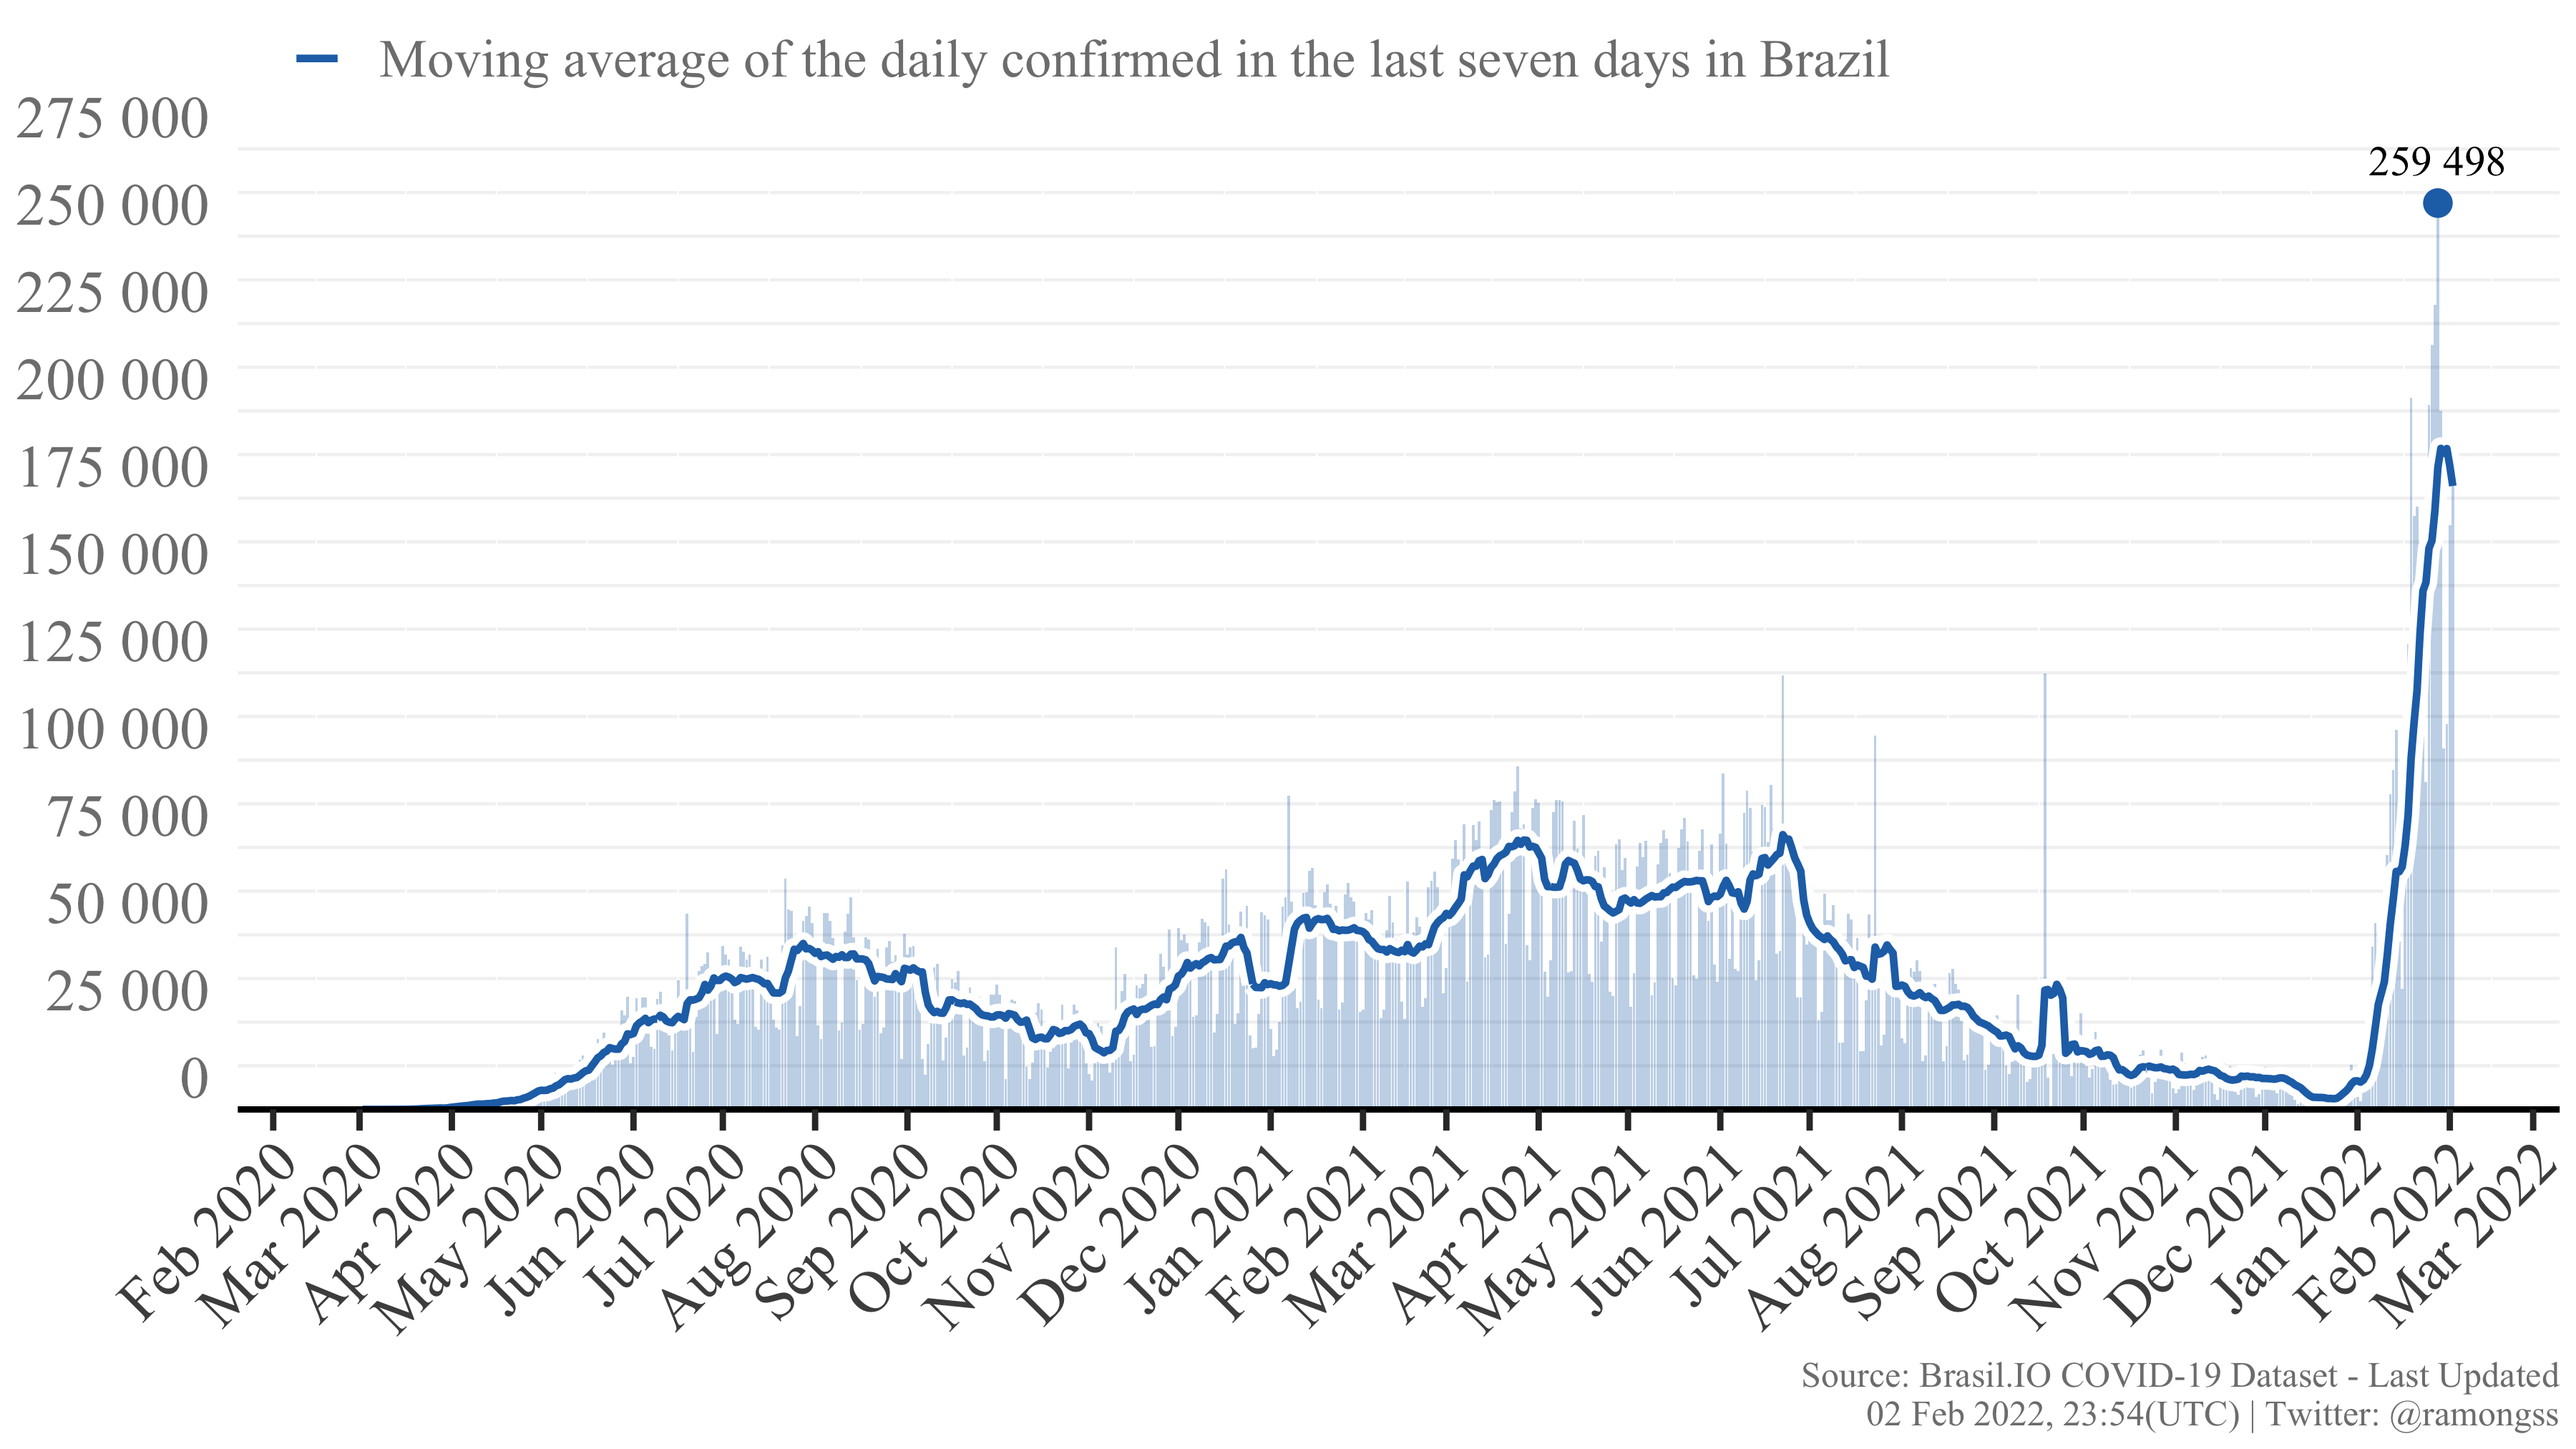
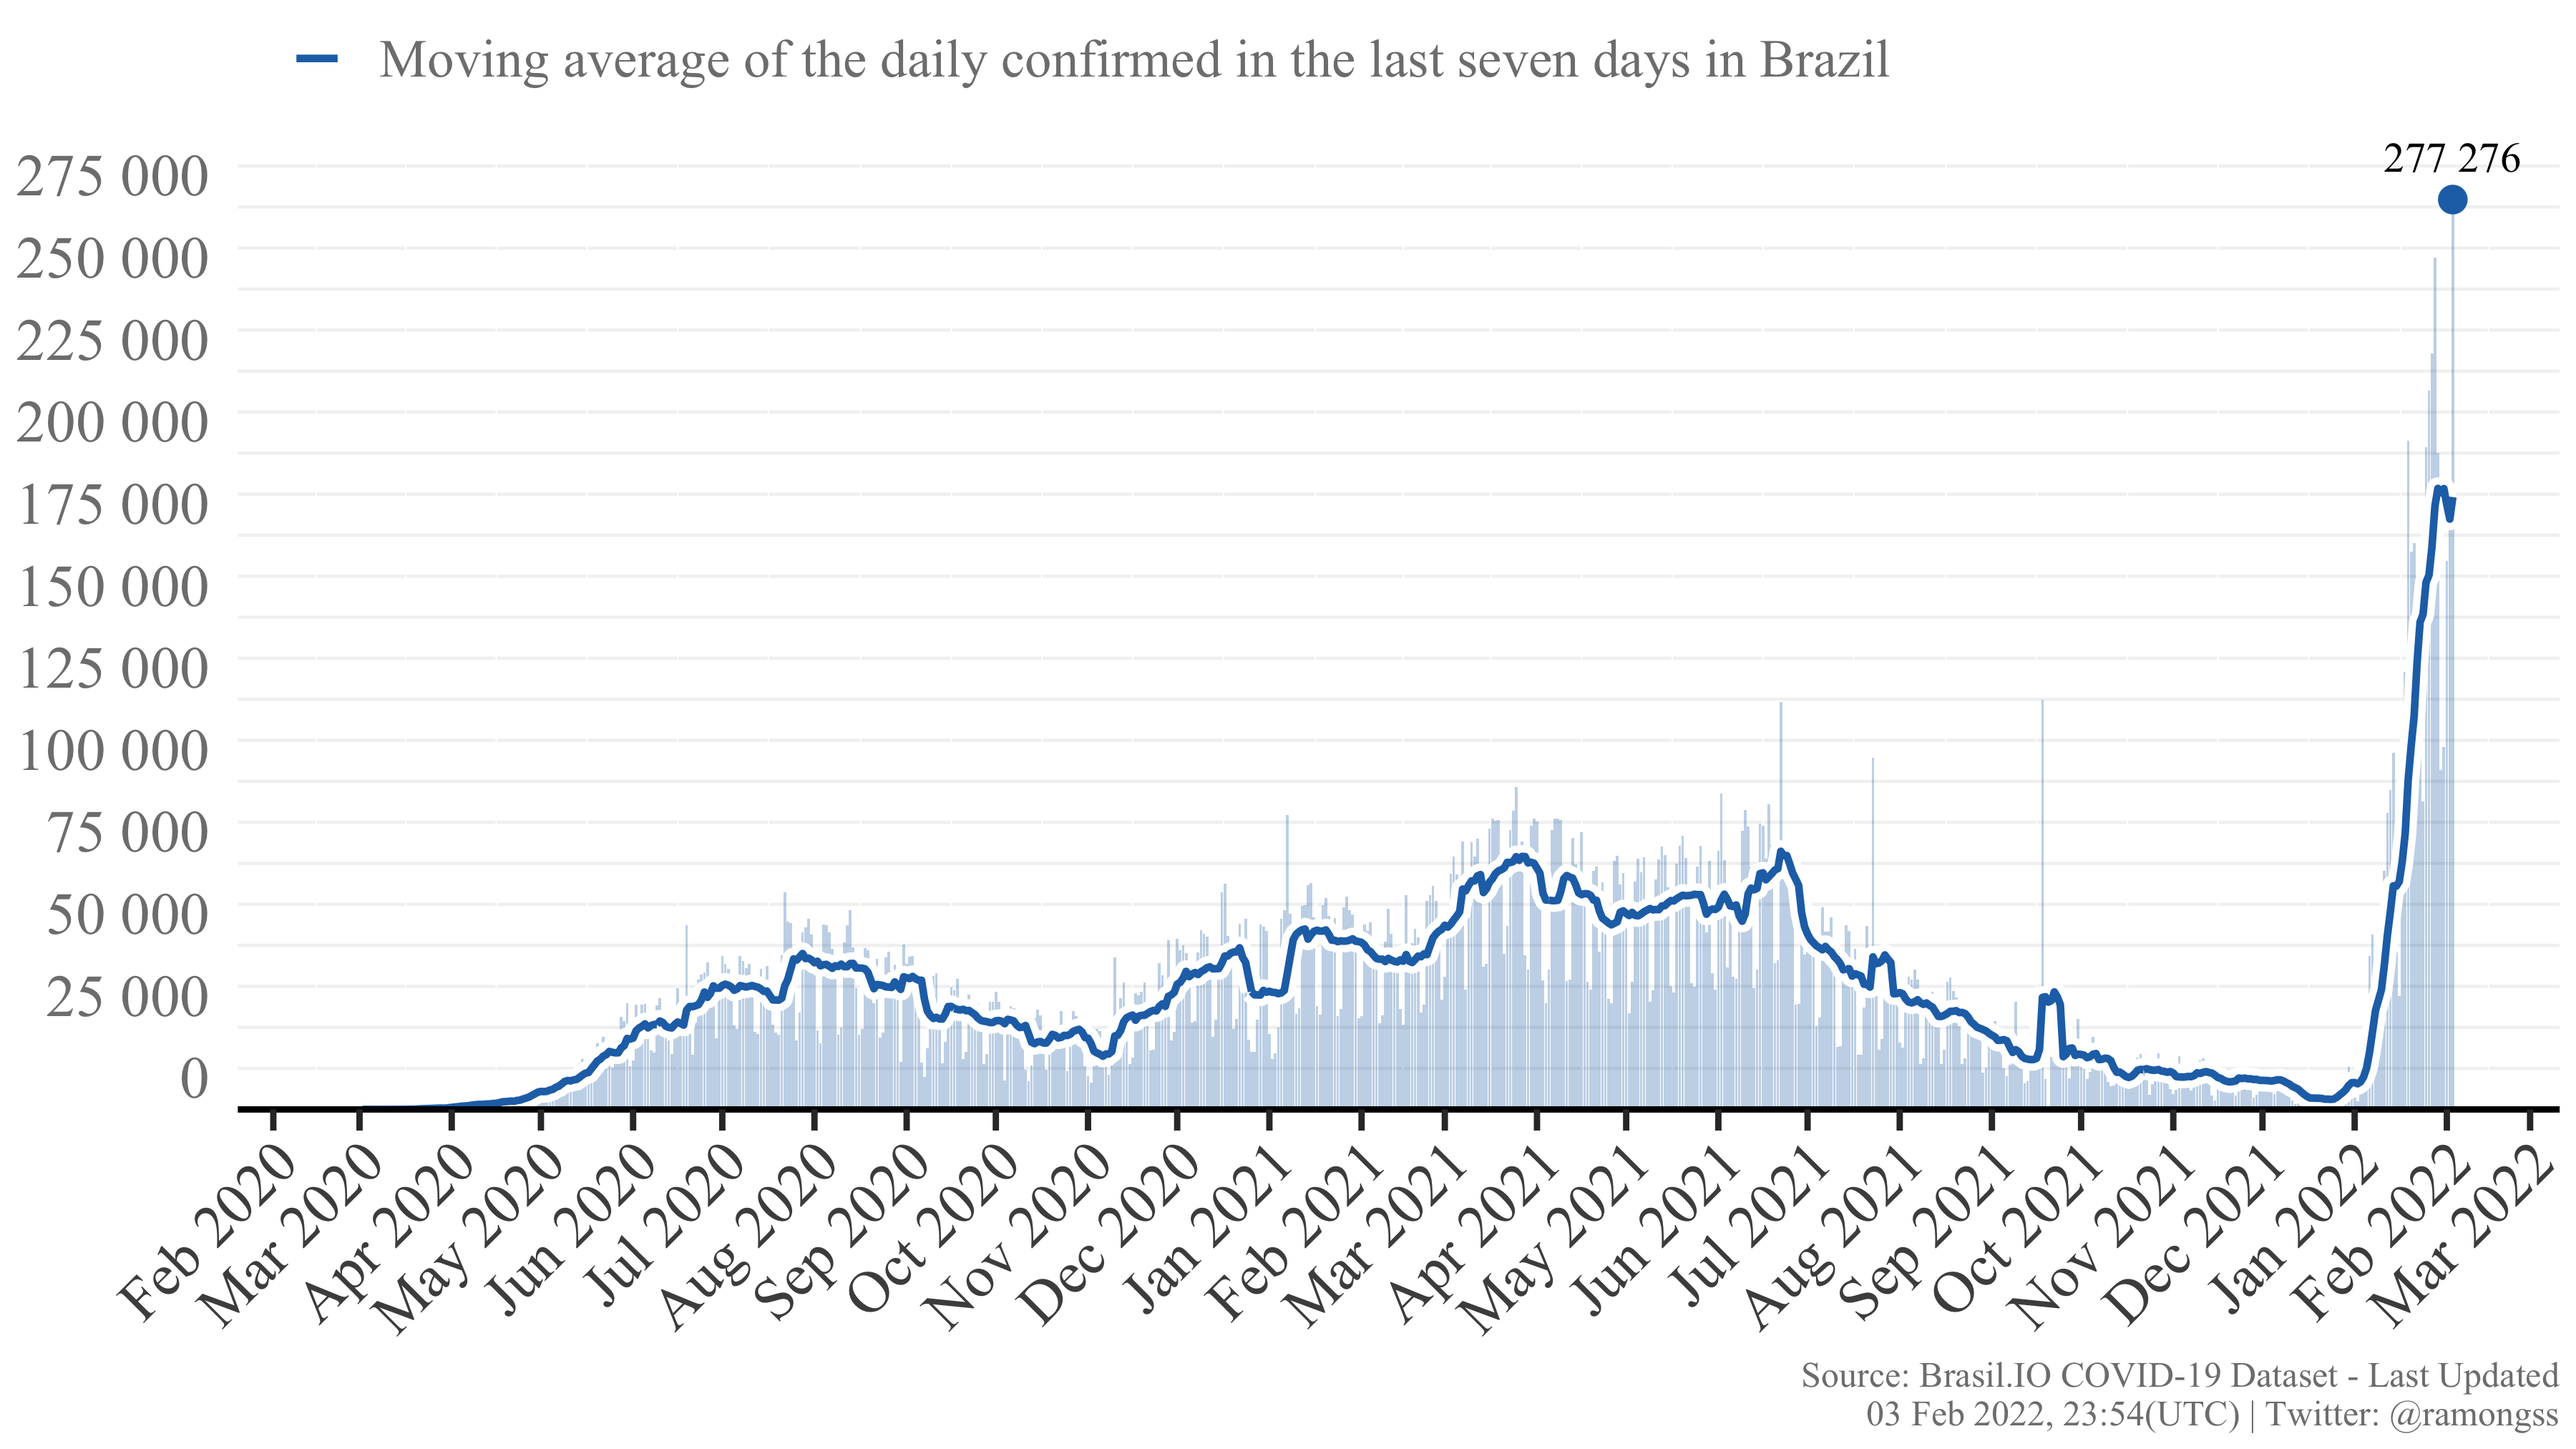
Re-build README.Rmd

diff --git a/README.md b/README.md
@@ -27,9 +27,9 @@ download_brasilio_table <- function(dataset = "covid19", table_name){
 
 ## COVID-19 Confirmed cases
 
-Currently, Brazil has a total of **25,820,745** confirmed cases at **02
-Feb, 2022**, with **178,662** new confirmed cases. The daily maximum
-incidence was **259,498** confirmed cases at **28 Jan, 2022**. Here
+Currently, Brazil has a total of **26,107,894** confirmed cases at **03
+Feb, 2022**, with **277,276** new confirmed cases. The daily maximum
+incidence was **277,276** confirmed cases at **03 Feb, 2022**. Here
 follows the Figure showing the confirmed case incidence as the bars, and
 the line as the moving average of the last 7 days.
 
@@ -37,8 +37,8 @@ the line as the moving average of the last 7 days.
 
 ## COVID-19 Deaths
 
-Currently, Brazil has a total of **629,301** deaths at **02 Feb, 2022**,
-with **905** new deaths. The daily maximum deaths incidence was
+Currently, Brazil has a total of **630,219** deaths at **03 Feb, 2022**,
+with **883** new deaths. The daily maximum deaths incidence was
 **4,148** deaths at **08 Apr, 2021**. Here follows the Figure showing
 the deaths incidence as the bars, and the line as the moving average of
 the last 7 days.
@@ -49,4 +49,4 @@ the last 7 days.
 
 This page is daily updated automatically using Github Actions.
 
-*Last update: 02 Feb 2022, 23:55 (UTC).*
+*Last update: 03 Feb 2022, 23:54 (UTC).*
